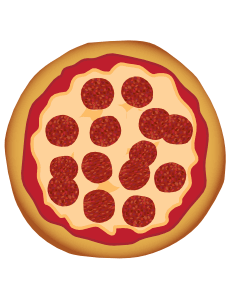
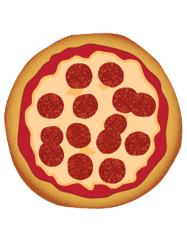
Optimize and compress pizza images, added requestAnimFrame

diff --git a/views/js/main.js b/views/js/main.js
@@ -18,7 +18,6 @@ cameron *at* udacity *dot* com
 
 // As you may have realized, this website randomly generates pizzas.
 // Here are arrays of all possible pizza ingredients.
-
 var pizzaIngredients = {};
 pizzaIngredients.meats = [
   "Pepperoni",
@@ -286,20 +285,24 @@ function getNoun(y) {
 var adjectives = ["dark", "color", "whimsical", "shiny", "noise", "apocalyptic", "insulting", "praise", "scientific"];  // types of adjectives for pizza titles
 var nouns = ["animals", "everyday", "fantasy", "gross", "horror", "jewelry", "places", "scifi"];                        // types of nouns for pizza titles
 
+// Stores lengths of adjectives and nouns arrays
+var adjLen = adjectives.length;
+var nounsLen = nouns.length;
+
 // Generates random numbers for getAdj and getNoun functions and returns a new pizza name
 function generator(adj, noun) {
   var adjectives = getAdj(adj);
   var nouns = getNoun(noun);
-  var randomAdjective = parseInt(Math.random() * adjectives.length);
-  var randomNoun = parseInt(Math.random() * nouns.length);
+  var randomAdjective = parseInt(Math.random() * adjLen);
+  var randomNoun = parseInt(Math.random() * nounsLen);
   var name = "The " + adjectives[randomAdjective].capitalize() + " " + nouns[randomNoun].capitalize();
   return name;
 }
 
 // Chooses random adjective and random noun
 function randomName() {
-  var randomNumberAdj = parseInt(Math.random() * adjectives.length);
-  var randomNumberNoun = parseInt(Math.random() * nouns.length);
+  var randomNumberAdj = parseInt(Math.random() * adjLen);
+  var randomNumberNoun = parseInt(Math.random() * nounsLen);
   return generator(adjectives[randomNumberAdj], nouns[randomNumberNoun]);
 }
 
@@ -361,40 +364,15 @@ var makeRandomPizza = function() {
 
 // returns a DOM element for each pizza
 var pizzaElementGenerator = function(i) {
-  var pizzaContainer,             // contains pizza title, image and list of ingredients
-      pizzaImageContainer,        // contains the pizza image
-      pizzaImage,                 // the pizza image itself
-      pizzaDescriptionContainer,  // contains the pizza title and list of ingredients
-      pizzaName,                  // the pizza name itself
-      ul;                         // the list of ingredients
+  var pizzaContainer;             // contains pizza title, image and list of ingredients
+  var pizzaContainerHTML = '<div class="col-md-6"><img class="img-responsive" src="images/pizza.png" width=""></div><div class="col-md-6"><h4>' + randomName() + '</h4><ul>' + makeRandomPizza() +'</ul></div>';
 
-  pizzaContainer  = document.createElement("div");
-  pizzaImageContainer = document.createElement("div");
-  pizzaImage = document.createElement("img");
-  pizzaDescriptionContainer = document.createElement("div");
-
+  pizzaContainer = document.createElement("div");
   pizzaContainer.classList.add("randomPizzaContainer");
   pizzaContainer.style.width = "33.33%";
   pizzaContainer.style.height = "325px";
-  pizzaContainer.id = "pizza" + i;                // gives each pizza element a unique id
-  pizzaImageContainer.classList.add("col-md-6");
-
-  pizzaImage.src = "images/pizza.png";
-  pizzaImage.classList.add("img-responsive");
-  pizzaImageContainer.appendChild(pizzaImage);
-  pizzaContainer.appendChild(pizzaImageContainer);
-
-
-  pizzaDescriptionContainer.classList.add("col-md-6");
-
-  pizzaName = document.createElement("h4");
-  pizzaName.innerHTML = randomName();
-  pizzaDescriptionContainer.appendChild(pizzaName);
-
-  ul = document.createElement("ul");
-  ul.innerHTML = makeRandomPizza();
-  pizzaDescriptionContainer.appendChild(ul);
-  pizzaContainer.appendChild(pizzaDescriptionContainer);
+  pizzaContainer.id = "pizza" + i;  // gives each pizza element a unique id
+  pizzaContainer.innerHTML = pizzaContainerHTML;
 
   return pizzaContainer;
 };
@@ -516,11 +494,10 @@ function updatePositions() {
   window.performance.mark("mark_start_frame");
 
   var items = document.querySelectorAll('.mover');
-  var docScrollTop = document.body.scrollTop;
-  for (var i = 0; i < items.length; i++) {
-    // var phase = Math.sin((document.body.scrollTop / 1250) + (i % 5));
-
-    var phase = Math.sin((docScrollTop / 1250) + (i % 5));
+  var itemsLen = items.length;
+  var docScrollTop = document.body.scrollTop / 1250;
+  for (var i = 0; i < itemsLen; i++) {
+    var phase = Math.sin(docScrollTop + (i % 5));
     items[i].style.left = items[i].basicLeft + 100 * phase + 'px';
   }
 
@@ -542,22 +519,21 @@ function goAnimate() {
 window.addEventListener('scroll', goAnimate);
 
 // Generates the sliding pizzas when the page loads.
-var Pizza = function() {
-  var pizza = document.createElement("img");
-  pizza.className = "mover";
-  pizza.src = "images/pizza.png";
-  pizza.style.height = "100px";
-  pizza.style.width = "73.333px";
-  return pizza;
-};
-
-var querySelect = document.querySelector("#movingPizzas1");
-
 document.addEventListener('DOMContentLoaded', function() {
   var cols = 8;
   var s = 256;
+  var querySelect = document.querySelector("#movingPizzas1");
 
-  for (var i = 0; i < 200; i++) {
+  var Pizza = function() {
+    var pizza = document.createElement("img");
+    pizza.className = "mover";
+    pizza.src = "images/pizza.png";
+    pizza.style.height = "100px";
+    pizza.style.width = "73.333px";
+    return pizza;
+  };
+
+  for (var i = 0; i < 100; i++) {
     var elem = new Pizza();
     elem.basicLeft = (i % cols) * s;
     elem.style.top = (Math.floor(i / cols) * s) + 'px';
